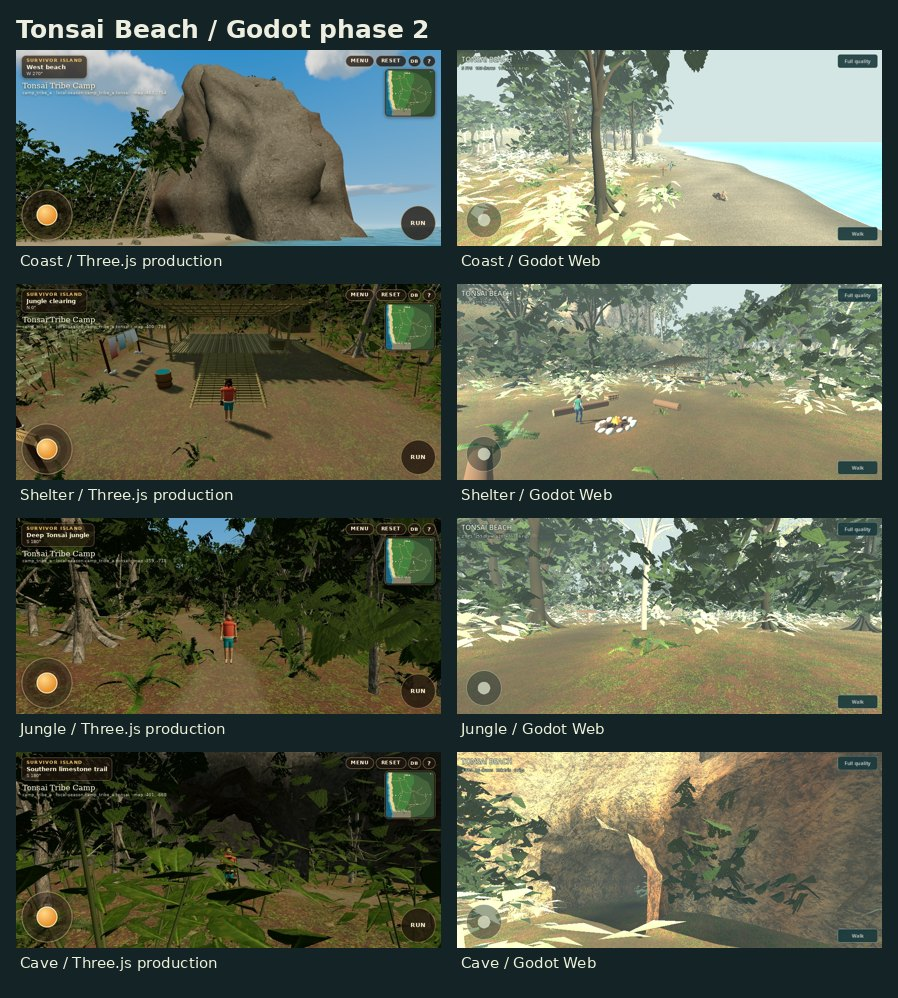
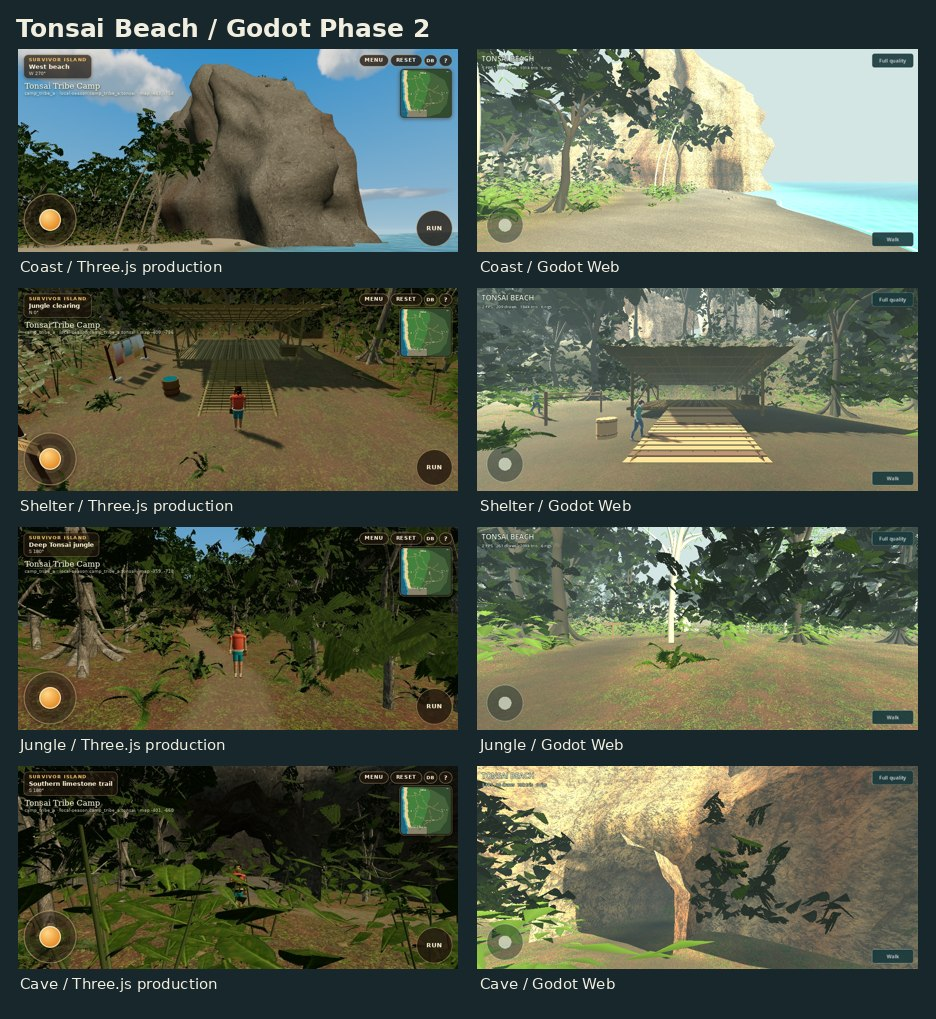
Grade coastal foliage and verify Tonsai scenes in Chromium

diff --git a/tools/tonsai/review_web.py b/tools/tonsai/review_web.py
@@ -99,7 +99,7 @@ def main():
         startup = round(monotonic() - now, 2)
         page.screenshot(path=config.captures / "spawn.png")
         performance = exercise(page, config.captures)
-        for view in ("coast", "camp", "jungle", "spring", "cave", "cave-interior"):
+        for view in ("coast", "camp", "shelter", "jungle", "spring", "cave", "cave-interior"):
             page.evaluate("view => window.tonsaiView(view)", view)
             page.wait_for_timeout(500)
             page.screenshot(path=config.captures / f"{view}.png")

diff --git a/docs/phase2/README.md b/docs/phase2/README.md
@@ -59,3 +59,5 @@ The Tonsai workflow uploads `survivor-island-tonsai-web` rather than deploying. 
 ![Godot gameplay frames](Tonsai-gameplay.jpg)
 
 Headless Godot completed approximately 387 m of continuous physical traversal through the shelter ramp and deck, camp trail, beach, freshwater spring, quiet alcove and cave. The route isolates physical terrain from temporary NPC congestion. Separate tests cover participant-only memory, NPC interruption and resumption, cave wall collision, and the camera pitch limits. Standalone Chromium testing covers six rigs, a touch-initiated conversation, simultaneous movement and camera orbit, and movement cancellation on release.
+
+The validated Web export contains 20,876,592 bytes of game data and 39,514,754 bytes of WebAssembly before transfer compression. Linux Chromium 149 with SwiftShader software WebGL 2 reported a 9.11 s loopback startup at 956 × 440 CSS pixels. With six rigs, the sampled medians were 123 draws and 91,091 submitted primitives at Full quality, and 53 draws and 33,073 primitives in Economy. Software rendering reported 7 and 5 FPS respectively in that short sample. Phone performance needs a real-device run.
